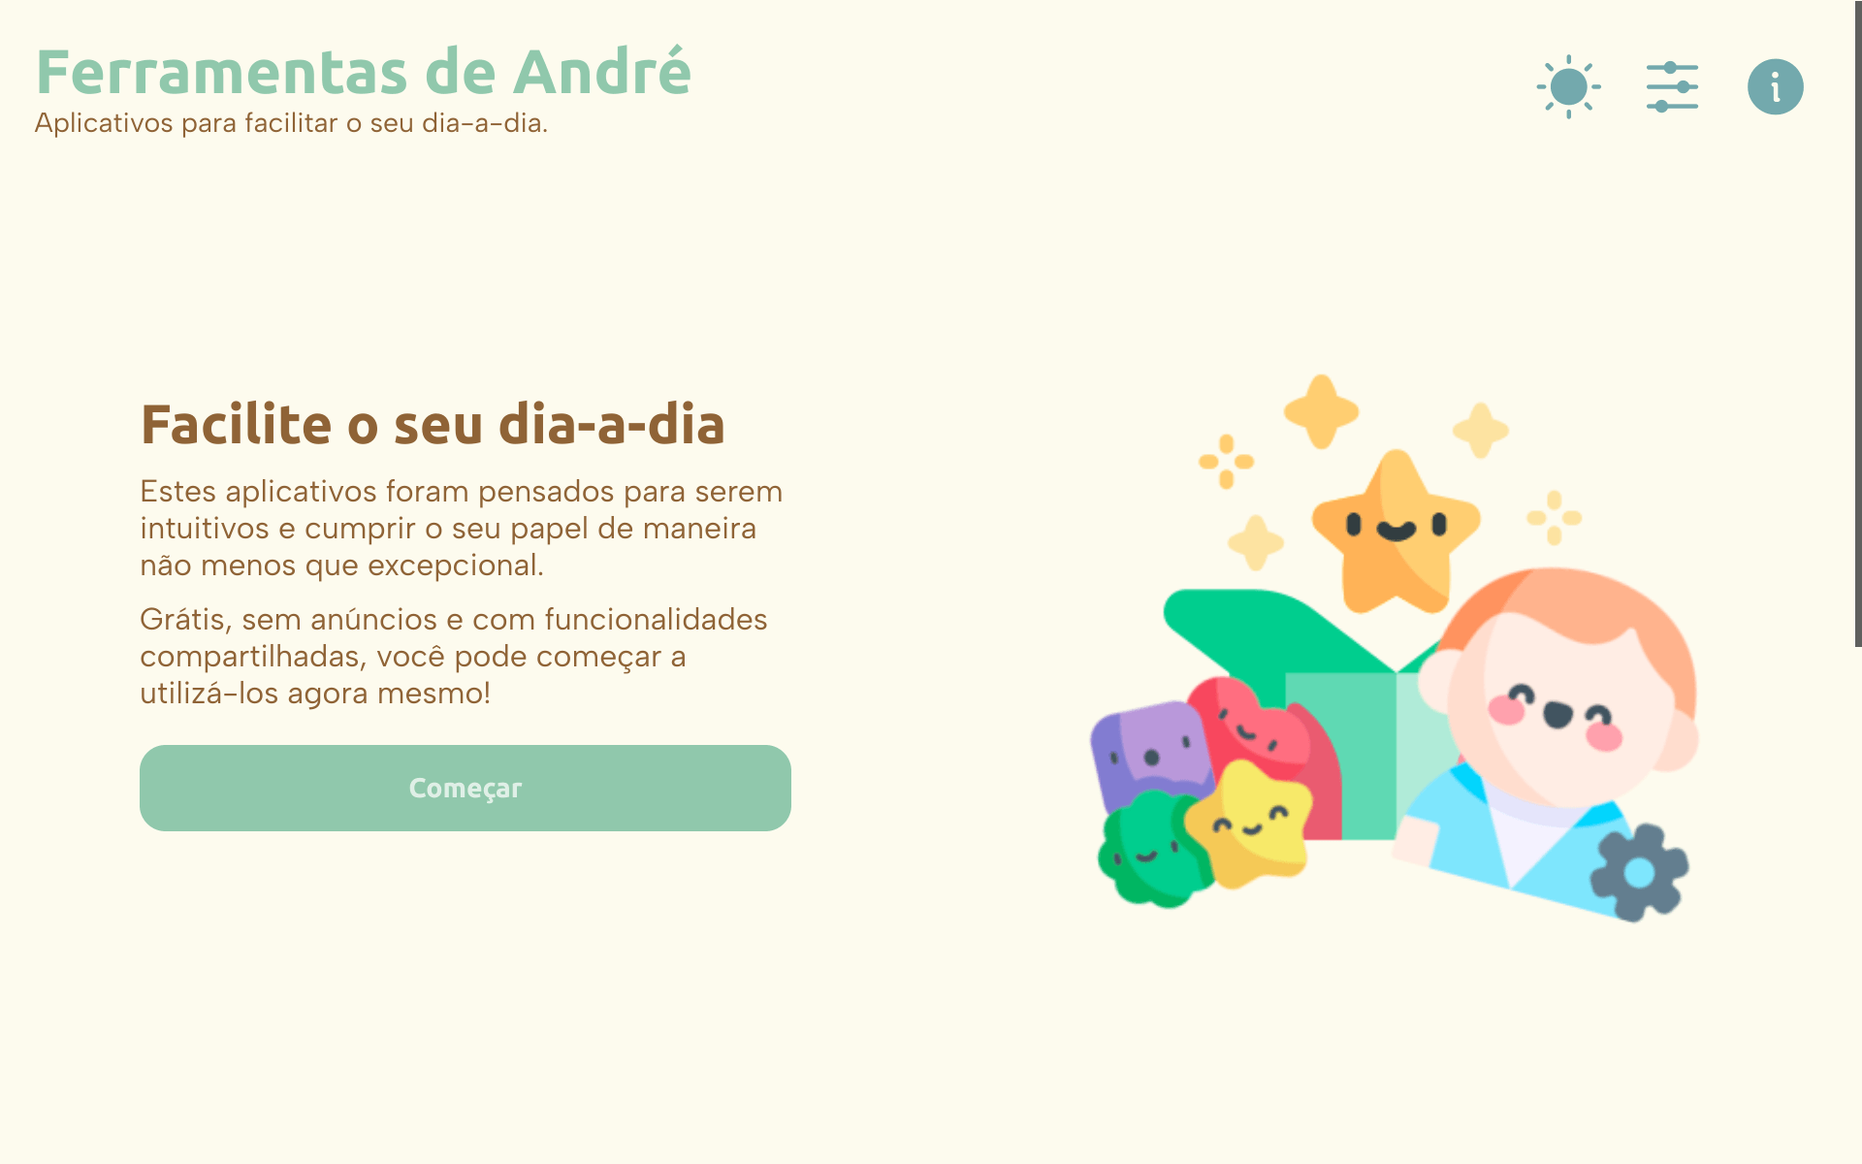
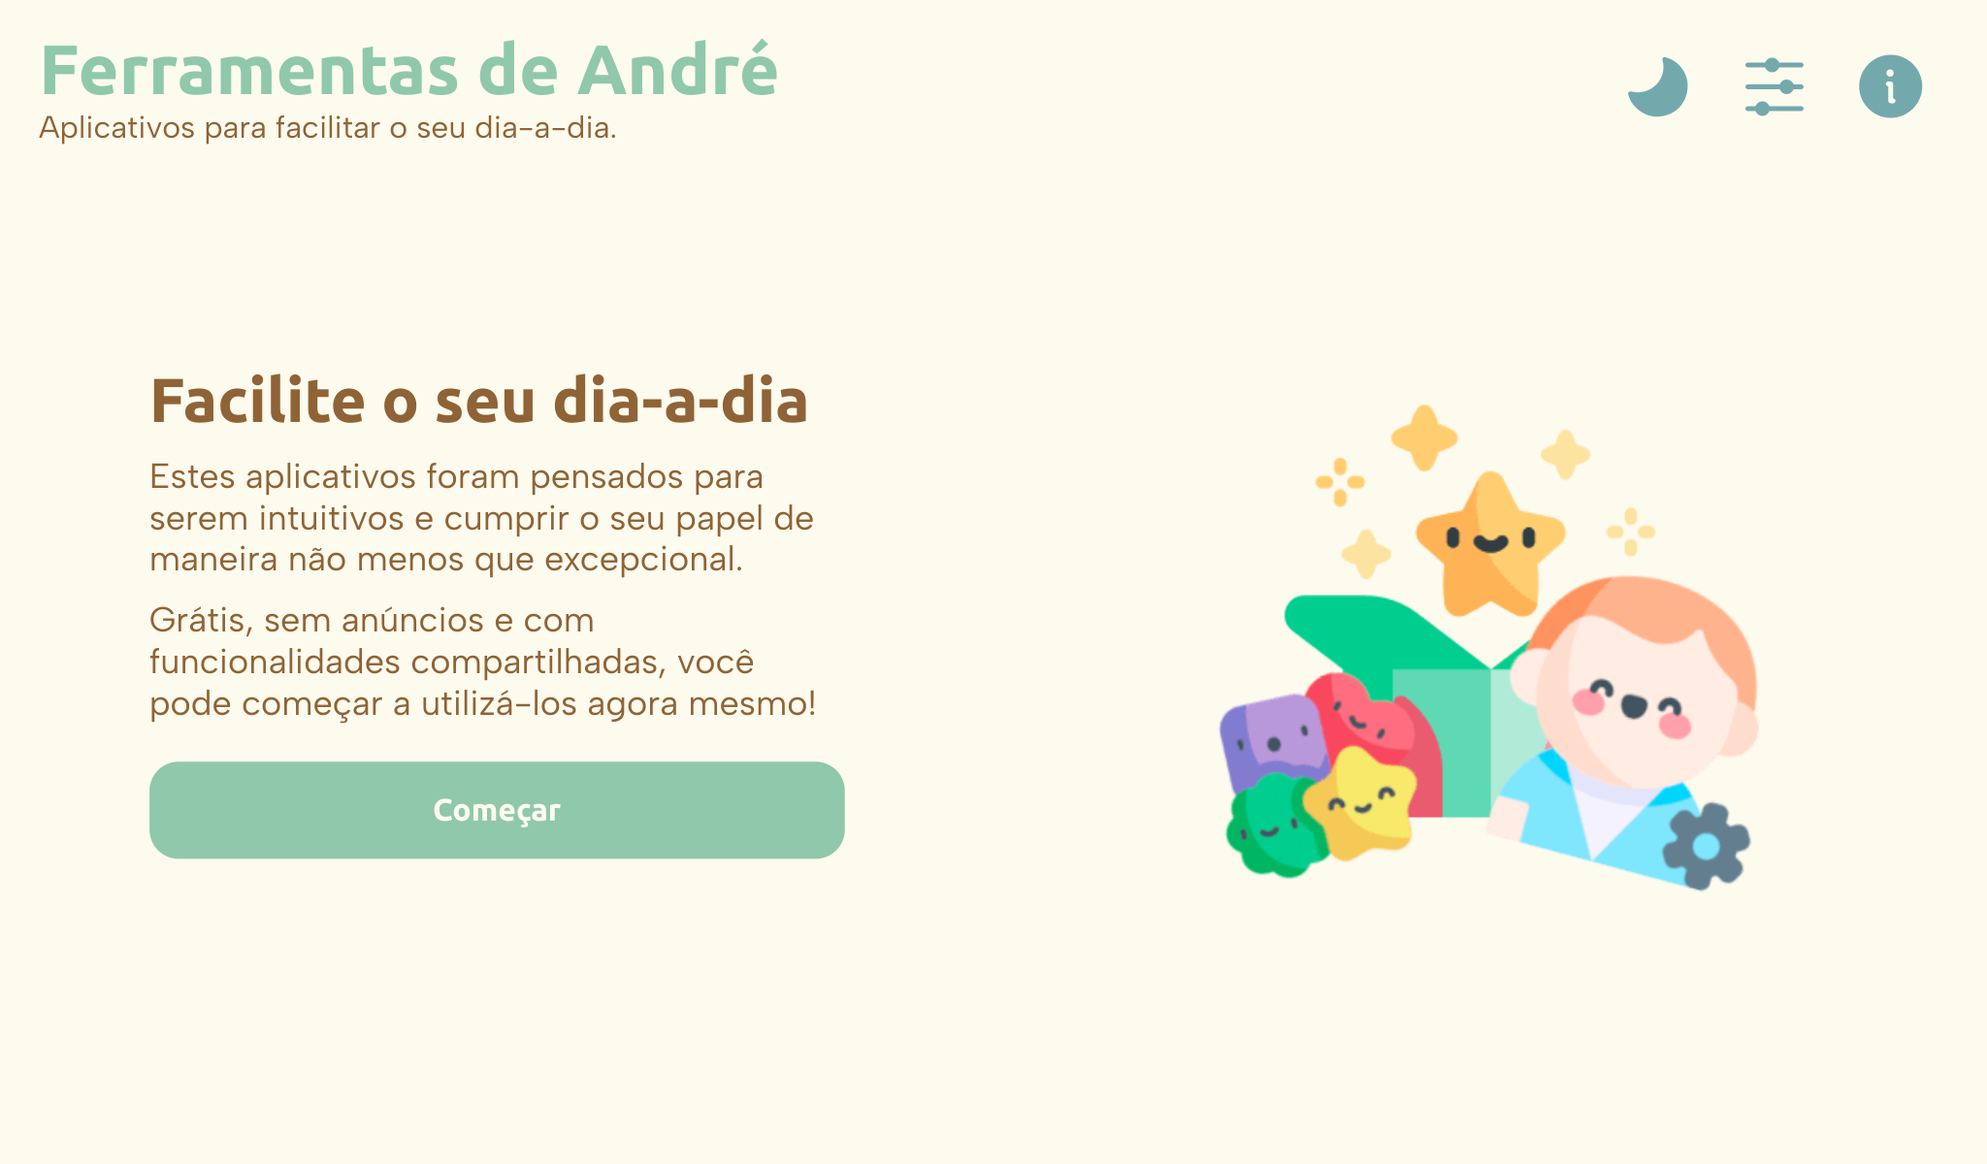
Atualização 2.5 - Adicionada opção de acessibilidade com a fonte Atkinson Hyperlegible, disponível através do PUAU. - Agora é possível sincronizar o tema da página com o tema do seu dispositivo. - Corrigida falha na página inicial em que os cartões das ferramentas não se adequava corretamente ao tam

diff --git a/essencial.js b/essencial.js
@@ -38,9 +38,17 @@ window.addEventListener('load', async ()=>{
         pegarDadosLocais('versao', pegarDadosFerramenta('versao'))
     }
 
+    //ADICIONAR CÓDIGO DO PHOSPHORICONS
+    /*O código foi retirado do 'head' do HTML por motivos de desempenho de carregamento.*/
+    const scriptPhosphorIcons = () => {
+        let elemento = document.createElement('script')
+        elemento.setAttribute('src', 'https://unpkg.com/phosphor-icons')
+        document.body.appendChild(elemento)
+    }; scriptPhosphorIcons();
+
     //IMPORTA OS PEDAÇOS E EXECUTA TODOS OS CÓDIGOS REFERNTES AOS ELEMENTOS IMPORTADOS.
     await importarPedacos();
-    atualizarPUAU(); autoAjustePUAU();
+    atualizarPUAU(); autoAjustePUAU(); puauTrocarFonteParaSuperlegivel();
 })
 
 //↓↓ SCRIPTS DE IMPORTAÇÃO
@@ -153,6 +161,9 @@ function autoAjustePUAU(){
 
     //ACIONADORES
     document.querySelectorAll("#container_opcoes_PUAU > article.opcao_PUAU > div:nth-child(2) > input").forEach(opcao => document.querySelector(`#${opcao.id}`).addEventListener('click', ()=>{conferirPUAU(opcao.id, document.querySelector(`#${opcao.id}`).checked)}))
+
+    //ACIONADORES ESPECIAIS
+    document.querySelector('#acessibilidadeFonte').addEventListener('click', puauTrocarFonteParaSuperlegivel)
 }
 
 function conferirPUAU(funcao, status=null) {
@@ -172,6 +183,26 @@ function conferirPUAU(funcao, status=null) {
 
     return null;
 }
+
+    //FUNÇÕES EXTRAS E DE ACESSIBILIDADE
+    function puauTrocarFonteParaSuperlegivel() {
+        let cssRoot = document.querySelector(':root')
+        if(Number(conferirPUAU('acessibilidadeFonte'))>=2){
+            /*FONTES DISPONÍVEIS
+            As fontes utilizadas no projeto estão divididas entre '--texto_titulo', para todos os títulos, e '--texto_geral' para todos os parágrafos. Com a opção de acessibilidade, ambos títulos e parágrafos passarão a utilizar a mesma fonte, definida em '--texto_geral_acessibilidade'.
+
+            Atualmente, as fontes são:
+            --texto_titulo: 'Ubuntu', sans-serif
+            --texto_geral: 'Albert Sans', sans-serif
+            --texto_geral_acessibilidade: 'Atkinson Hyperlegible', monospace
+            */
+            cssRoot.style.setProperty('--texto_titulo', `'Atkinson Hyperlegible', monospace`)
+            cssRoot.style.setProperty('--texto_geral', `'Atkinson Hyperlegible', monospace`)
+        } else {
+            cssRoot.style.setProperty('--texto_titulo', `'Ubuntu', sans-serif`)
+            cssRoot.style.setProperty('--texto_geral', `'Albert Sans', sans-serif`)
+        }
+    }
 
 //↓↓ ESTILO DA PÁGINA
 function alterarTema(interacao=0){
@@ -292,7 +323,7 @@ function pegarDadosLocais(item, valor=null) {
     const info = localStorage.getItem(`info_${Ferramenta.nome}`).split(';').map(item => {return item.split(':')})
 
     if(valor!=null) {
-        for(i=0;i<info.length;i++){if(info[i][0] == item){info[i][1] = valor; Ferramenta.info = info.join(';').replaceAll(',',':'); return window.localStorage.setItem(`info_${Ferramenta.nome}`, Ferramenta.info)}}
+        for(i=0;i<info.length;i++){if(info[i][0] == item){info[i][1] = valor; return localStorage.setItem(`info_${Ferramenta.nome}`, info.join(';').replaceAll(',',':'))}}
     } else {
         for(i=0;i<info.length;i++){if(info[i][0] == item){return info[i][1]}}
     }

diff --git a/pedaco/puau.html b/pedaco/puau.html
@@ -3,7 +3,7 @@
     <img loading="lazy" src="/imagens/ajustes.png" alt="" height="128" width="128">
     <aside>
         <h2>Ajustes</h2>
-        <p>Aqui você poderá conferir ajustes e opções de acessibilidade para facilitar o seu uso da página. Todas as alterações são salvas automaticamente.</p>
+        <p>Aqui você poderá conferir ajustes e opções de acessibilidade (<span><i class="ph-person-simple-bold"></i></span>) para facilitar o seu uso da página. Todas as alterações são salvas automaticamente.</p>
         
         <section id="container_opcoes_PUAU">
             <article class="opcao_PUAU">
@@ -18,7 +18,7 @@
             <article class="opcao_PUAU">
                 <div>
                     <h3>Tema do dispositivo</h3>
-                    <p>O tema da página desta ferramenta será igual ao tema selecionado por você no seu dispositivo.</p>
+                    <p>O tema da página desta ferramenta será igual ao tema do seu dispositivo.</p>
                 </div>
                 <div>
                     <input type="checkbox" id="temaDoDispositivo" disabled>
@@ -27,7 +27,7 @@
             <article class="opcao_PUAU">
                 <div>
                     <h3>Sincronizar tema</h3>
-                    <p>O tema da página desta ferramenta será igual ao das outras ferramentas.</p>
+                    <p>O tema desta página será compartilhado com as outras ferramentas.</p>
                 </div>
                 <div>
                     <input type="checkbox" id="sincronizarTema" disabled>
@@ -36,11 +36,20 @@
             <article class="opcao_PUAU">
                 <div>
                     <h3>Habilitar Cookies</h3>
-                    <p>Informações anônimas sobre suas interações na página serão coletadas.</p>
+                    <p>Dados anônimos sobre suas interações na página serão coletados.</p>
                     <p style="text-decoration: underline; cursor: pointer;" onclick="importarPedacos('importarPopupErroFetch'); abrirPopup()">Saiba mais.</p>
                 </div>
                 <div>
                     <input type="checkbox" id="habilitarCookies" disabled>
+                </div>
+            </article>
+            <article class="opcao_PUAU">
+                <div>
+                    <h3 class="puau_acessibilidade"><i class="ph-person-simple-bold"></i>Fonte mais legível</h3>
+                    <p>Altera a fonte desta página para facilitar a leitura da tela.</p>
+                </div>
+                <div>
+                    <input type="checkbox" id="acessibilidadeFonte" disabled>
                 </div>
             </article>
         </section>

diff --git a/link-de-whatsapp/index.html b/link-de-whatsapp/index.html
@@ -27,7 +27,6 @@
     <link rel="shortcut icon" href="logo.png" type="image/png">
 
     <!--SCRIPTS-->
-    <script defer src="https://unpkg.com/phosphor-icons"></script>
     <script defer src="script.js"></script>
     <script defer src="/essencial.js"></script>
 
@@ -127,11 +126,12 @@
         <article class="popup" style="display: none;" id="popup_log_novidades">
             <img loading="lazy" src="/imagens/novidades_versao.png" alt="" height="128" width="128">
             <h2>Tem novidade desde a sua última visita!</h2>
-            <p><strong>Conheça o PUAU:</strong> O novo <span style="text-decoration: underline; cursor: pointer;" onclick="abrirPopup('popup_puau')"><em>Painel Universal de Ajustes do Usuário</em></span> está disponvível agora nesta página! Com ele você pode salvar suas preferências de uso e muito mais.</p>
+            <p><strong class="puau_acessibilidade"><i class="ph-person-simple-bold"></i>Acessibilidade:</strong> Você agora pode selecionar uma fonte para facilitar a leitura da tela no <span class="interacao" onclick="abrirPopup('popup_puau')">Painel Universal de Ajustes do Usuário</span>.</p>
+            <p><strong>Conheça o PUAU:</strong> O novo <span class="interacao" onclick="abrirPopup('popup_puau')">Painel Universal de Ajustes do Usuário</span> está disponvível agora nesta página! Com ele você pode salvar suas preferências de uso e muito mais.</p>
             <p><strong>Melhorias de leitura:</strong> Agora o número de telefone digitado é formatado de maneira a facilitar a sua leitura.</p>
             <p><strong>Melhorias na usabilidade:</strong> A ferramenta adaptará a exibição das entradas, proporcionando uma experiência de uso mais direta.</p>
             <p><strong>Tema da página sincronizado:</strong> Agora, o tema que você escolher para esta página será sincronizado com todas as outras ferramentas que suportam essa função.</p>
-            <p>O que achou das novidades? Você pode conferir as mudanças mais técnicas diretamente no meu <span style="text-decoration: underline; cursor: pointer;" onclick="abrirPopup('popup_sobre')">repositório do GitHub</span>!</p>
+            <p>O que achou das novidades? Você pode conferir as mudanças mais técnicas diretamente no meu <span class="interacao" onclick="abrirPopup('popup_sobre')">repositório do GitHub</span>!</p>
             <div class="container_btns">
                 <button class="btn_popup btn_fechar_popup" id="btn_fechar_popup_log_novidades" onclick="fecharPopup('popup_log_novidades')">Fechar</button>
             </div>

diff --git a/universal.css b/universal.css
@@ -1,6 +1,6 @@
 @charset "UTF-8";
 
-@import url('https://fonts.googleapis.com/css2?family=Albert+Sans:ital,wght@0,100;0,200;0,300;0,400;0,500;0,600;0,700;0,800;0,900;1,100;1,200;1,300;1,400;1,500;1,600;1,700;1,800;1,900&family=Ubuntu:ital,wght@0,300;0,400;0,500;0,700;1,300;1,400;1,500;1,700&display=swap');
+@import url('https://fonts.googleapis.com/css2?family=Albert+Sans:ital,wght@0,100;0,200;0,300;0,400;0,500;0,600;0,700;0,800;0,900;1,100;1,200;1,300;1,400;1,500;1,600;1,700;1,800;1,900&family=Ubuntu:ital,wght@0,300;0,400;0,500;0,700;1,300;1,400;1,500;1,700&family=Atkinson+Hyperlegible:ital,wght@0,400;0,700;1,400;1,700&display=swap');
 /*↑ IMPORTAÇÕES ↑*/
 
 /*↓ CONFIGURAÇÕES GERAIS ↓*/
@@ -8,6 +8,7 @@
     /*TEXTO*/
     --texto_titulo: 'Ubuntu', sans-serif;
     --texto_geral: 'Albert Sans', sans-serif;
+    --texto_geral_acessibilidade: 'Atkinson Hyperlegible', monospace;
 
     --tamanho_texto_p: 16px;
     --tamanho_texto_m: 18px;
@@ -142,6 +143,8 @@ header > section:nth-of-type(2) {justify-content: end; align-items: center; flex
 /*↓ ÍCONES ↓*/
 i {color: var(--cor_icones);font-size: 40px; text-align: center;}
 #icone_Ajustes > i {transform: rotate(90deg);}
+h3 > i{font-size: var(--tamanho_texto_m);}
+p i {font-size: var(--tamanho_texto_m);}
 
 /*↓ RODAPÉ ↓*/
 footer {height: fit-content; padding: 20px 40px; display: flex; align-items: center; justify-content: center; height: calc(10vh - 40px);}
@@ -183,6 +186,7 @@ article.popup p {margin: 20px auto;}
         transition: 250ms;
     }
 
+    .puau_acessibilidade {display: inline-flex; align-items: start; gap: 5px;}
     article.opcao_PUAU input[type=checkbox]:disabled {background-color: #e6e6e6; opacity: 0.6   ; cursor: not-allowed;}
 
     article.opcao_PUAU input[type=checkbox]::before {
@@ -201,6 +205,9 @@ article.popup p {margin: 20px auto;}
     article.opcao_PUAU input[type=checkbox]:checked {background-color: var(--cor_icones);}
 
     article.opcao_PUAU input[type=checkbox]:checked::before {margin-left: 38px; box-shadow: none;}
+
+    /*↓ LOG NOVIDADES ↓*/
+    #popup_log_novidades span.interacao {text-decoration: underline; cursor: pointer;}
 
     /*↓ MINI POPUPS ↓*/
     article.minipopup {display:flex; flex-direction: column;justify-content: center; align-items: center; gap: 20px; max-width: calc(300px - 80px); max-height: calc(80vh - 80px); padding: 40px; text-align: center; color: var(--cor_texto); background-color: var(--cor_plano_de_fundo); border-radius: var(--arredondamento_borda); animation: popupAparecer 250ms ease-out;}

diff --git a/gerador-de-lorem-ipsum/index.html b/gerador-de-lorem-ipsum/index.html
@@ -27,7 +27,6 @@
     <link rel="shortcut icon" href="logo.png" type="image/png">
 
     <!--SCRIPTS-->
-    <script defer src="https://unpkg.com/phosphor-icons"></script>
     <script defer src="index.js"></script>
     <script defer src="/essencial.js"></script>
 
@@ -119,9 +118,10 @@
             <img loading="lazy" src="https://apps.andremourasantos.com/imagens/novidades_versao.png" alt="" height="128" width="128">
             <aside>
                 <h2>Tem novidade desde a sua última visita!</h2>
-                <p><strong>Conheça o PUAU:</strong> O novo <span style="text-decoration: underline; cursor: pointer;" onclick="abrirPopup('popup_puau')"><em>Painel Universal de Ajustes do Usuário</em></span> está disponvível agora nesta página! Com ele você pode salvar suas preferências de uso e muito mais.</p>
+                <p><strong class="puau_acessibilidade"><i class="ph-person-simple-bold"></i>Acessibilidade:</strong> Você agora pode selecionar uma fonte para facilitar a leitura da tela no <span class="interacao" onclick="abrirPopup('popup_puau')">Painel Universal de Ajustes do Usuário</span>.</p>
+                <p><strong>Conheça o PUAU:</strong> O novo <span class="interacao" onclick="abrirPopup('popup_puau')"><em>Painel Universal de Ajustes do Usuário</em></span> está disponvível agora nesta página! Com ele você pode salvar suas preferências de uso e muito mais.</p>
                 <p><strong>Tema da página sincronizado:</strong> Agora, o tema que você escolher para esta página será sincronizado com todas as outras ferramentas que suportam essa função.</p>
-                <p>O que achou das novidades? Você pode conferir as mudanças mais técnicas diretamente no meu <span style="text-decoration: underline; cursor: pointer;" onclick="abrirPopup('popup_sobre')">repositório do GitHub</span>!</p>
+                <p>O que achou das novidades? Você pode conferir as mudanças mais técnicas diretamente no meu <span class="interacao" onclick="abrirPopup('popup_sobre')">repositório do GitHub</span>!</p>
                 <div class="container_btns_popup">
                     <button class="btn_popup btn_fechar_popup" onclick="fecharPopup('popup_log_novidades')">Fechar</button>
                 </div>

diff --git a/index.html b/index.html
@@ -28,7 +28,6 @@
     <link rel="shortcut icon" href="https://andremourasantos.com/imagens/favicon.ico" type="image/x-icon">
 
     <!--SCRIPTS-->
-    <script defer src="https://unpkg.com/phosphor-icons"></script>
     <script defer src="index.js"></script>
     <script defer src="essencial.js"></script>
 
@@ -127,8 +126,9 @@
         <aside>
             <h2>Tem novidade desde a sua última visita!</h2>
             <p>Esta página está sempre sendo atualizada, confira as novidades mais recentes:</p>
+            <p><strong class="puau_acessibilidade"><i class="ph-person-simple-bold"></i>Acessibilidade:</strong> Você agora pode selecionar uma fonte para facilitar a leitura da tela no <span class="interacao" onclick="abrirPopup('popup_puau')">Painel Universal de Ajustes do Usuário</span>.</p>
             <p><strong>Tema da página sincronizado:</strong> Agora, o tema que você escolher para esta página será sincronizado com todas as outras ferramentas que suportam essa função.</p>
-            <p>O que achou das novidades? Você pode conferir as mudanças mais técnicas diretamente no meu <span style="text-decoration: underline; cursor: pointer;" onclick="abrirPopup('popup_sobre')">repositório do GitHub</span>!</p>
+            <p>O que achou das novidades? Você pode conferir as mudanças mais técnicas diretamente no meu <span class="interacao" onclick="abrirPopup('popup_sobre')">repositório do GitHub</span>!</p>
             <div class="container_btns_popup">
                 <button class="btn_popup btn_fechar_popup" onclick="fecharPopup('popup_log_novidades')">Fechar</button>
             </div>

diff --git a/gerador-de-qrcode/index.html b/gerador-de-qrcode/index.html
@@ -26,7 +26,6 @@
     <link rel="shortcut icon" href="logo.png" type="image/png">
 
     <!--SCRIPTS-->
-    <script defer src="https://unpkg.com/phosphor-icons"></script>
     <script defer src="script.js"></script>
     <script defer src="/essencial.js"></script>
 
@@ -133,8 +132,9 @@
         <img loading="lazy" src="/imagens/novidades_versao.png" alt="" height="128" width="128">
         <aside>
             <h2>Tem novidade desde a sua última visita!</h2>
+            <p><strong class="puau_acessibilidade"><i class="ph-person-simple-bold"></i>Acessibilidade:</strong> Você agora pode selecionar uma fonte para facilitar a leitura da tela no <span class="interacao" onclick="abrirPopup('popup_puau')">Painel Universal de Ajustes do Usuário</span>.</p>
             <p><strong>Tema da página sincronizado:</strong> Agora, o tema que você escolher para esta página será sincronizado com todas as outras ferramentas que suportam essa função.</p>
-            <p>O que achou das novidades? Você pode conferir as mudanças mais técnicas diretamente no meu <span style="text-decoration: underline; cursor: pointer;" onclick="abrirPopup('popup_sobre')">repositório do GitHub</span>!</p>
+            <p>O que achou das novidades? Você pode conferir as mudanças mais técnicas diretamente no meu <span class="interacao" onclick="abrirPopup('popup_sobre')">repositório do GitHub</span>!</p>
             <div class="container_btns_popup">
                 <button class="btn_popup btn_fechar_popup" onclick="fecharPopup('popup_log_novidades')">Fechar</button>
             </div>

diff --git a/index.css b/index.css
@@ -9,7 +9,7 @@ body > main > section:nth-child(2) > img {display: block; margin-inline: auto; m
 /*↓ SEÇÃO DE FERRAMENTAS ↓*/
 #ferramentas {padding: 60px 0px;}
 #ferramentas * {text-align: center;}
-#fachada_de_ferramentas {width: min(80%); margin-inline: auto; display: flex; gap: 30px; justify-content: center; align-items: center; padding: 60px 0 0 0;}
+#fachada_de_ferramentas {width: min(80%); margin-inline: auto; display: flex; gap: 30px; justify-content: center; align-items: center; padding: 60px 0 0 0; flex-wrap: wrap;}
 
 .apresentacao_ferramenta {width: 200px; height: 300px; display: flex; flex-direction: column; justify-content: center; align-items: center; gap: 20px; cursor: pointer; border-radius: var(--arredondamento_borda); padding: 0px 20px; box-shadow: 0 0 6px #00000030;}
 
@@ -20,11 +20,11 @@ body > main > section:nth-child(2) > img {display: block; margin-inline: auto; m
 /*↓ RESPONSIVIDADE ↓*/
 @media screen and (max-width: 1024px) {
     main.duas_colunas > section:nth-child(1) {order: 2;}
+    
 }
 
 @media screen and (max-width: 600px) {
     main > section:nth-child(1) > article {text-align: center; width: 100%;}
-    #fachada_de_ferramentas {flex-direction: column;}
     .apresentacao_ferramenta {height: 365px;}
 }
  

diff --git a/gerador-de-qrcode/script.js b/gerador-de-qrcode/script.js
@@ -6,8 +6,8 @@ window.addEventListener('load', ()=>{
 //↓↓ CONFIGURAÇÕES
 let Ferramenta = {
     nome: 'gerador-de-qrcode',
-    info: 'versao:1.1;temaDaPagina:Claro;',
-    PUAU: 'salvarDados:0;sincronizarTema:2;temaDoDispositivo:2;habilitarCookies:0',
+    info: 'versao:1.2;temaDaPagina:Claro;',
+    PUAU: 'acessibilidadeFonte:1;salvarDados:0;sincronizarTema:2;temaDoDispositivo:2;habilitarCookies:0',
 }
 let QRCode = {
     url: ()=>{return QRCode.api + QRCode.requisicao},

diff --git a/link-de-whatsapp/script.js b/link-de-whatsapp/script.js
@@ -1,9 +1,8 @@
 //↓↓ INFO DA FERRAMENTA
 let Ferramenta = {
     nome: 'link-de-whatsapp',
-    info: 'versao:2.1;temaDaPagina:Claro;dadosSalvos:telefone==',
-    PUAU: 'salvarDados:2;sincronizarTema:2;temaDoDispositivo:2;habilitarCookies:0',
-    temaDaPagina: null
+    info: 'versao:2.2;temaDaPagina:Claro;dadosSalvos:telefone==',
+    PUAU: 'acessibilidadeFonte:1;salvarDados:2;sincronizarTema:2;temaDoDispositivo:2;habilitarCookies:0'
 }
 
 //↓↓ ACIONADORES

diff --git a/gerador-de-lorem-ipsum/index.js b/gerador-de-lorem-ipsum/index.js
@@ -1,8 +1,8 @@
 //↓↓ INFO DA FERRAMENTA
 let Ferramenta = {
     nome: 'gerador-de-lorem-ipsum',
-    info: 'versao:1.2;temaDaPagina:Claro',
-    PUAU: 'salvarDados:0;sincronizarTema:2;temaDoDispositivo:2;habilitarCookies:0'
+    info: 'versao:1.3;temaDaPagina:Claro',
+    PUAU: 'acessibilidadeFonte:1;salvarDados:0;sincronizarTema:2;temaDoDispositivo:2;habilitarCookies:0'
 }
 
 //↓↓ CONFIGURAÇÕES

diff --git a/index.js b/index.js
@@ -1,8 +1,8 @@
 //↓↓ CONFIGURAÇÕES
 let Ferramenta = {
     nome: 'Inicial',
-    info: 'versao:2.4;temaDaPagina:Claro;',
-    PUAU: 'salvarDados:0;sincronizarTema:2;temaDoDispositivo:2;habilitarCookies:0'
+    info: 'versao:2.5;temaDaPagina:Claro;',
+    PUAU: 'acessibilidadeFonte:1;salvarDados:0;sincronizarTema:2;temaDoDispositivo:2;habilitarCookies:0'
 }
 
 //↓↓ ACIONADORES
